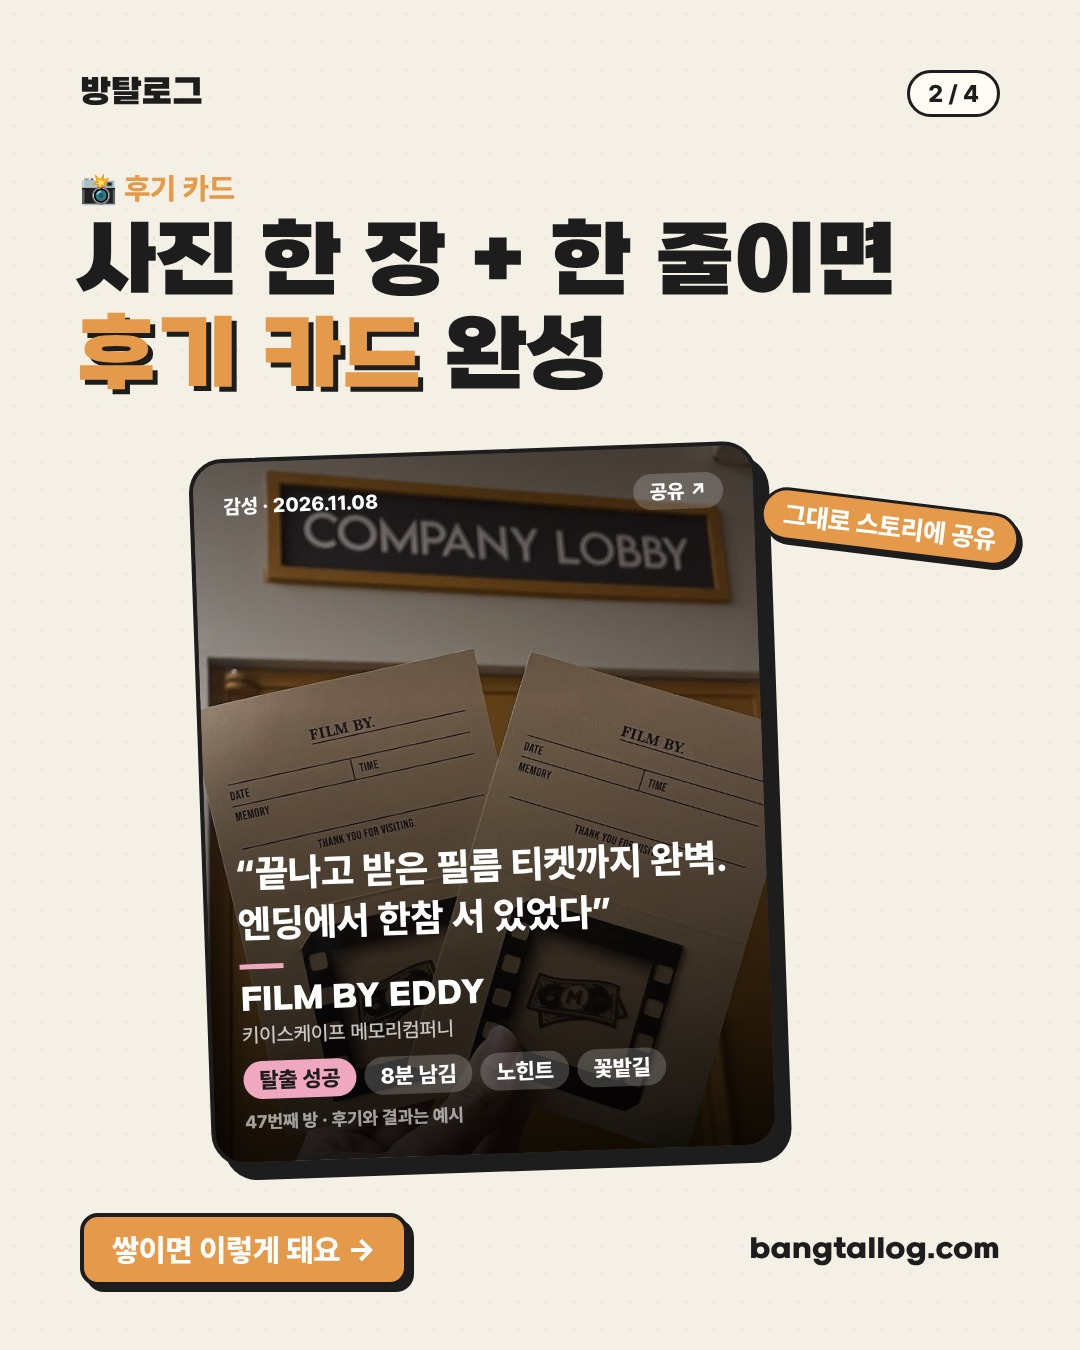
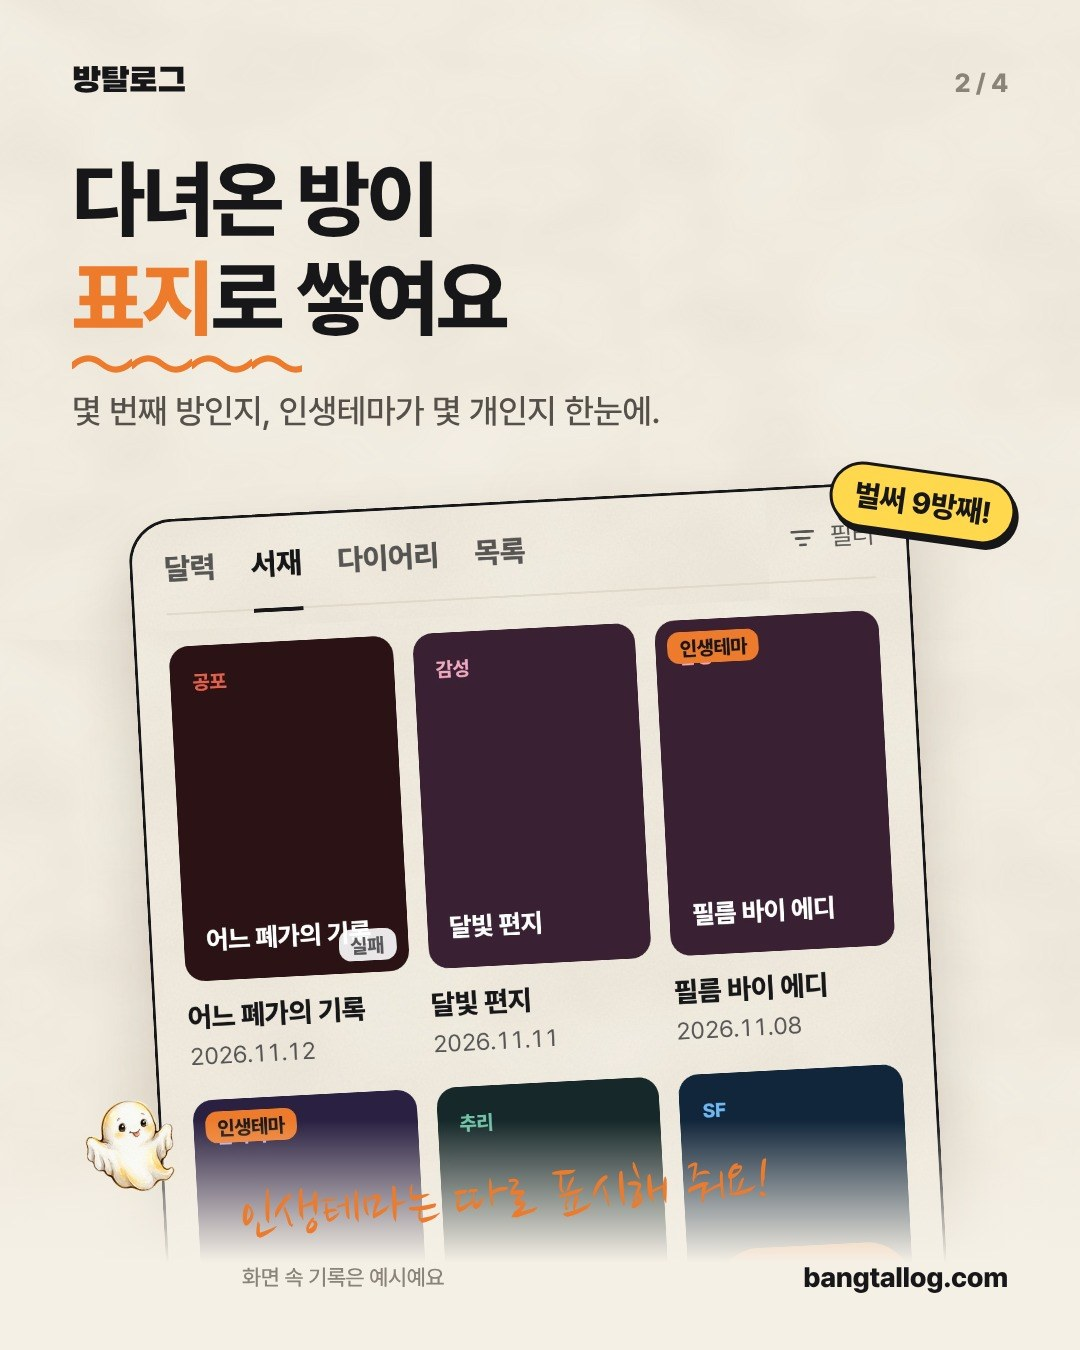
관리자 '지금 새로고침' 버튼 + 오늘 12시 다이어리 게시물을 새 카드·캡션으로
Claude-Session: https://claude.ai/code/session_01RCovqCTjag3WJkZFny7UQu

diff --git a/lib/instagram.ts b/lib/instagram.ts
@@ -162,11 +162,11 @@ export const STATIC_POSTS: Record<string, { count: number; caption: string }> = 
       "방켓팅까지 해서 간 방, 1년 뒤에도 기억나요?",
       "",
       "예약 전쟁 뚫고 간 방도, 시간이 지나면 이름부터 가물가물해요.",
-      "📸 사진 한 장에 한 줄만 쓰면 후기 카드가 되고",
-      "📅 다녀온 날마다 달력에 포스터가 쌓이고",
+      "📚 다녀온 방이 표지로 차곡차곡 쌓이고",
+      "📅 다녀온 날마다 달력에 붙어서, 한 달을 이미지 한 장으로 저장할 수 있고",
       "🔮 기록 3개면 내 방탈출 유형과 다음에 갈 방까지 나와요.",
       "",
-      "후기 카드는 그대로 스토리에 공유할 수 있어요.",
+      "다녀온 날, 한 줄만 남겨 두세요.",
       "먼저 써 보고 10초 가입 → 프로필 링크",
       "",
       "#방탈출 #방탈출기록 #방탈출다이어리 #방탈출후기 #방탈출추천 #방탈러 #방린이 #방켓팅 #방탈출스타그램 #이색데이트 #방탈로그",

diff --git a/app/admin/refresh/page.tsx b/app/admin/refresh/page.tsx
@@ -1,0 +1,18 @@
+import RefreshButton from "./RefreshButton";
+
+// SQL 을 넣은 뒤 화면에 바로 반영하고 싶을 때 쓰는 곳
+export default function AdminRefreshPage() {
+  return (
+    <section className="rough space-y-4 rounded-2xl border-2 border-edge bg-panel p-5 shadow-cute">
+      <h2 className="text-xl">🔄 사이트 지금 새로고침</h2>
+      <p className="text-[15px] leading-relaxed text-cream/80 [word-break:keep-all]">
+        Supabase 에서 SQL 을 넣은 뒤 이 버튼을 누르면, 홈·테마·브랜드·지역·이머시브 모음 같은 페이지를 지금 바로 새로 만들어요.
+        누르지 않아도 테마 페이지는 10분, 홈·모음 페이지는 1시간 안에 저절로 바뀌어요.
+      </p>
+      <RefreshButton />
+      <p className="text-[13px] text-cream/60">
+        누른 직후 첫 화면은 새로 만드는 중이라 조금 느릴 수 있어요. 자주 누를 필요는 없어요(SQL 넣은 뒤 한 번).
+      </p>
+    </section>
+  );
+}

diff --git a/app/admin/refresh/actions.ts b/app/admin/refresh/actions.ts
@@ -1,0 +1,17 @@
+"use server";
+
+import { revalidatePath } from "next/cache";
+import { isCurrentUserAdmin } from "@/lib/supabase/server";
+
+// SQL 로 DB 를 고친 뒤, 미리 만들어 둔 페이지(캐시)를 지금 바로 새로 만들게 한다.
+// 평소엔 10분~1시간마다 저절로 새로 만들어지지만, 바로 보고 싶을 때 관리자가 누른다.
+export async function refreshSite(): Promise<{ ok: boolean; at?: string; error?: string }> {
+  if (!(await isCurrentUserAdmin())) return { ok: false, error: "관리자만 누를 수 있어요" };
+  // 루트 레이아웃 아래 모든 페이지(홈·테마·브랜드·지역·모음·스포트라이트…)와 그 페이지가 읽은 DB 캐시
+  revalidatePath("/", "layout");
+  revalidatePath("/api/search-index");
+  revalidatePath("/api/poster-index");
+  revalidatePath("/sitemap.xml");
+  const at = new Date(Date.now() + 9 * 3600 * 1000).toISOString().slice(11, 16);
+  return { ok: true, at };
+}

diff --git a/app/admin/refresh/RefreshButton.tsx b/app/admin/refresh/RefreshButton.tsx
@@ -1,0 +1,28 @@
+"use client";
+
+import { useState, useTransition } from "react";
+import { refreshSite } from "./actions";
+import { BTN_PRIMARY } from "@/lib/ui";
+
+export default function RefreshButton() {
+  const [pending, start] = useTransition();
+  const [msg, setMsg] = useState<string | null>(null);
+  return (
+    <div className="space-y-2">
+      <button
+        type="button"
+        disabled={pending}
+        onClick={() =>
+          start(async () => {
+            const r = await refreshSite();
+            setMsg(r.ok ? `${r.at} 새로고침 완료! 이제 사이트를 열면 바뀐 내용이 보여요.` : r.error ?? "실패했어요");
+          })
+        }
+        className={`${BTN_PRIMARY} disabled:opacity-60`}
+      >
+        {pending ? "새로 만드는 중…" : "🔄 지금 새로고침"}
+      </button>
+      {msg && <p className="text-sm font-bold">{msg}</p>}
+    </div>
+  );
+}

diff --git a/app/admin/layout.tsx b/app/admin/layout.tsx
@@ -48,6 +48,9 @@ export default async function AdminLayout({
         <Link href="/admin/sources" className={tab}>
           유입 출처
         </Link>
+        <Link href="/admin/refresh" className={tab}>
+          🔄 지금 새로고침
+        </Link>
       </div>
       {children}
     </div>
